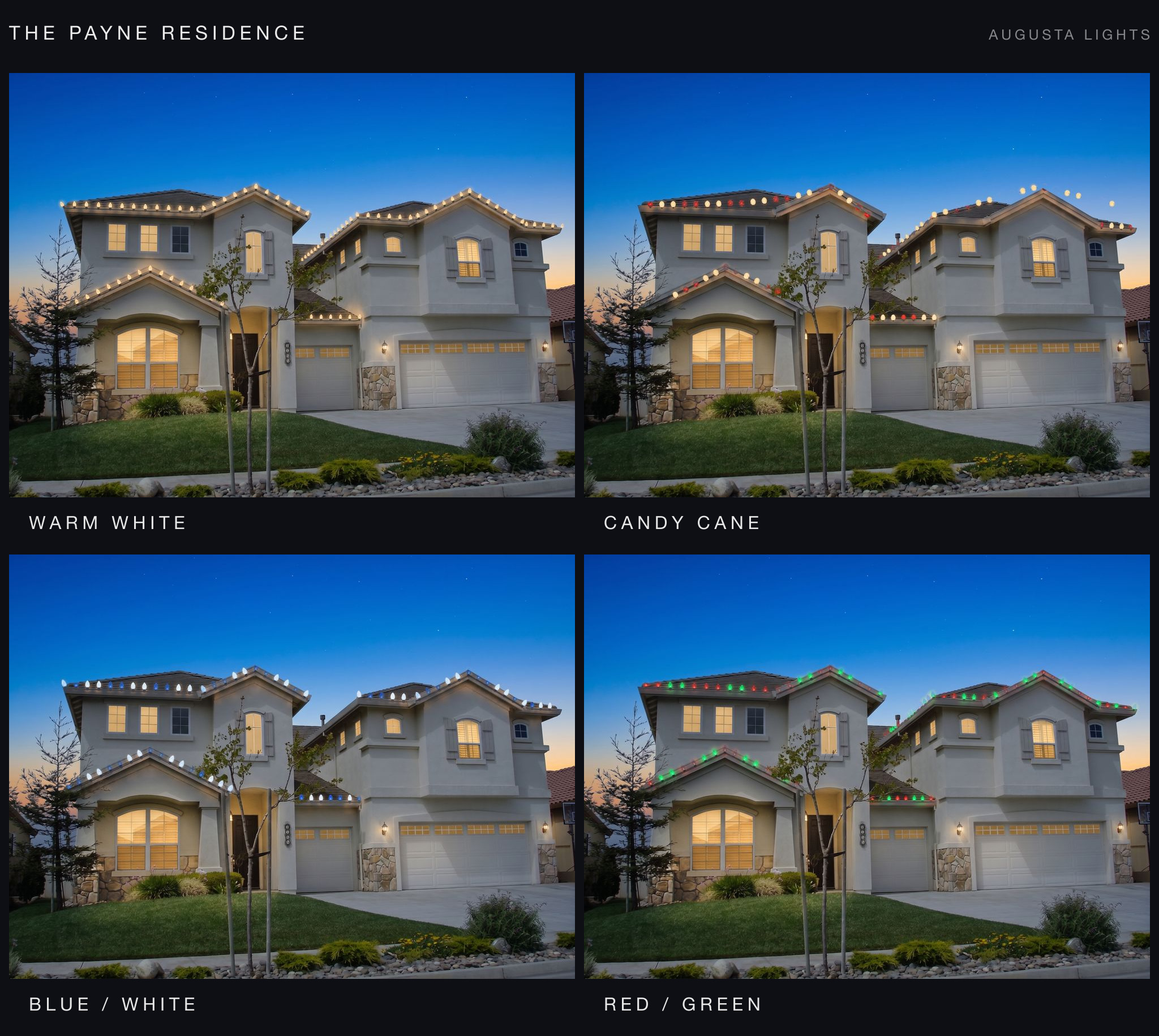
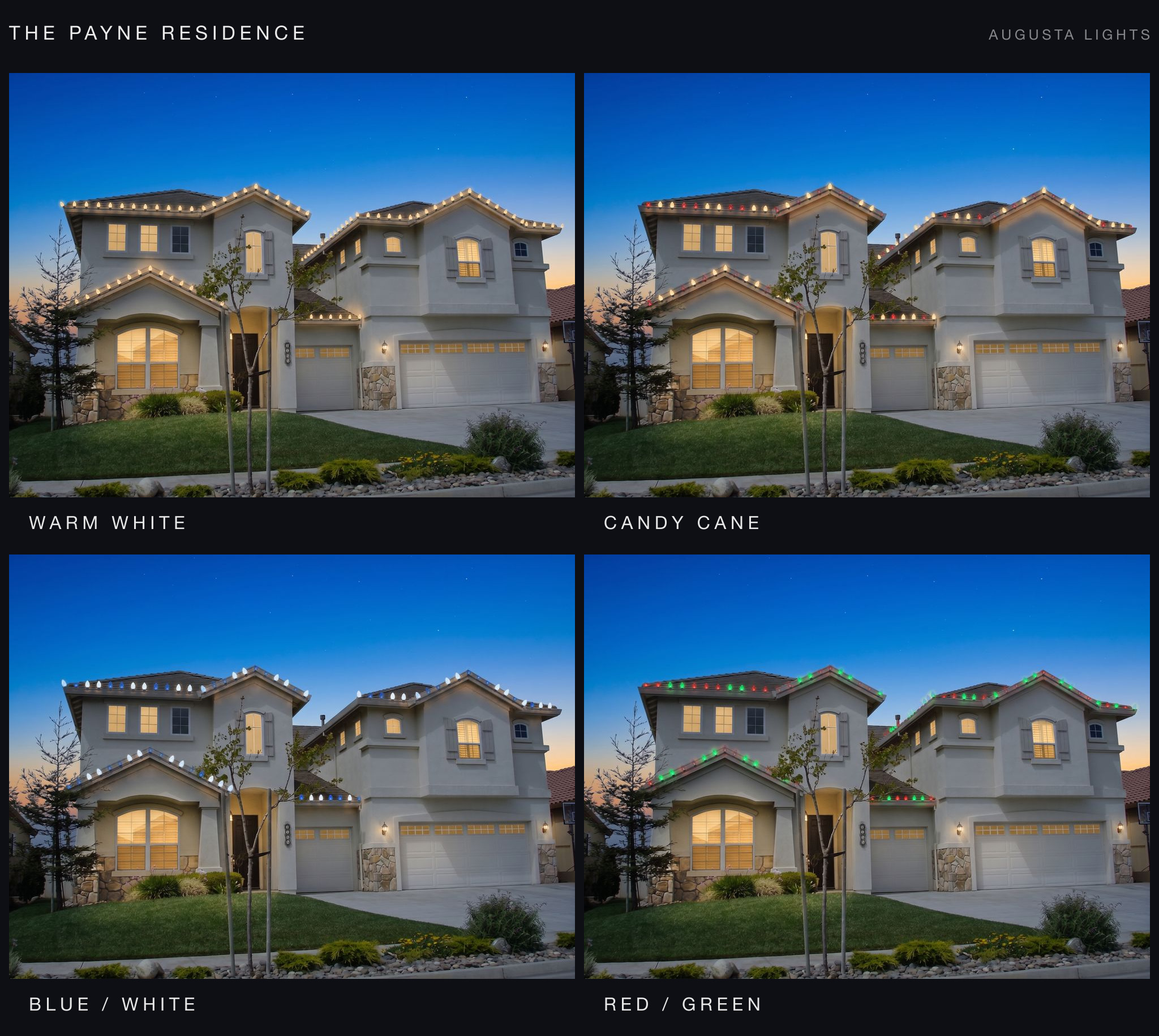
Stop a partial gallery build from dropping the other variants
Re-rendering a single design with --designs=candy-cane left the gallery showing
one lighting option instead of eleven, and switched the hero image to candy cane
because the hero is variants[0]. The renders were never lost — all eleven files
were still on disk and cached — but the manifest write replaced the whole house
entry with just the designs that run had collected.

Variants are now merged by designId and re-ordered to match the spec, so a
partial run updates what it rendered and leaves everything else intact. The same
applies to --master-only, which collects no variants at all and would previously
have emptied the list.

Also moves the variant badge to the top-left of the image. The residence name and
design label are composited into the bottom-left of every render, so a badge in
that corner sat on top of them.

Manifest regenerated from cache at no API cost: payne back to 11 variants with
warm-white as the hero, alvarez unchanged.

diff --git a/scripts/build-gallery.ts b/scripts/build-gallery.ts
@@ -266,7 +266,31 @@ async function main() {
 
   const manifest = path.join(process.cwd(), 'lib', 'gallery-data.json');
   const existing = existsSync(manifest) ? JSON.parse(await readFile(manifest, 'utf8')) : { houses: [] };
-  const merged = [...houses, ...existing.houses.filter((h: GalleryHouse) => !houses.some((n) => n.slug === h.slug))];
+  const previous: GalleryHouse[] = existing.houses ?? [];
+
+  /*
+   * Merge variants rather than replacing the house.
+   *
+   * A partial run (--designs=… or --master-only) only collects the designs it was
+   * asked for. Replacing the whole entry silently dropped the other ten renders
+   * from the manifest even though their files were still on disk, so the gallery
+   * showed a single lighting option and picked the wrong hero image. Variants are
+   * now merged by designId and re-ordered to match the spec.
+   */
+  const merged: GalleryHouse[] = [
+    ...houses.map((fresh) => {
+      const before = previous.find((h) => h.slug === fresh.slug);
+      if (!before) return fresh;
+      const byId = new Map(before.variants.map((v) => [v.designId, v]));
+      for (const v of fresh.variants) byId.set(v.designId, v);
+      const order = HOUSES.find((h) => h.slug === fresh.slug)?.designs ?? [];
+      const variants = [...byId.values()].sort(
+        (a, b) => order.indexOf(a.designId) - order.indexOf(b.designId),
+      );
+      return { ...fresh, variants, sheet: fresh.sheet ?? before.sheet };
+    }),
+    ...previous.filter((h) => !houses.some((n) => n.slug === h.slug)),
+  ];
   await writeFile(
     manifest,
     JSON.stringify({ houses: merged, dims, widths: WIDTHS, builtAt: new Date().toISOString() }, null, 2),

diff --git a/app/components/VariantPicker.tsx b/app/components/VariantPicker.tsx
@@ -44,7 +44,9 @@ export function VariantPicker({ variants, houseName }: { variants: GalleryVarian
             style={{ opacity: i === active ? 1 : 0 }}
           />
         ))}
-        <div className="pointer-events-none absolute bottom-3 left-3 rounded-md bg-black/65 px-2.5 py-1.5 backdrop-blur-sm">
+        {/* Top-left: the residence name and design label are composited into the
+            bottom-left of every render, so a badge there collides with them. */}
+        <div className="pointer-events-none absolute top-3 left-3 rounded-md bg-black/65 px-2.5 py-1.5 backdrop-blur-sm">
           <div className="text-[12px] font-semibold">{current.label}</div>
           {design && (
             <div className="text-[10px] text-white/70">
